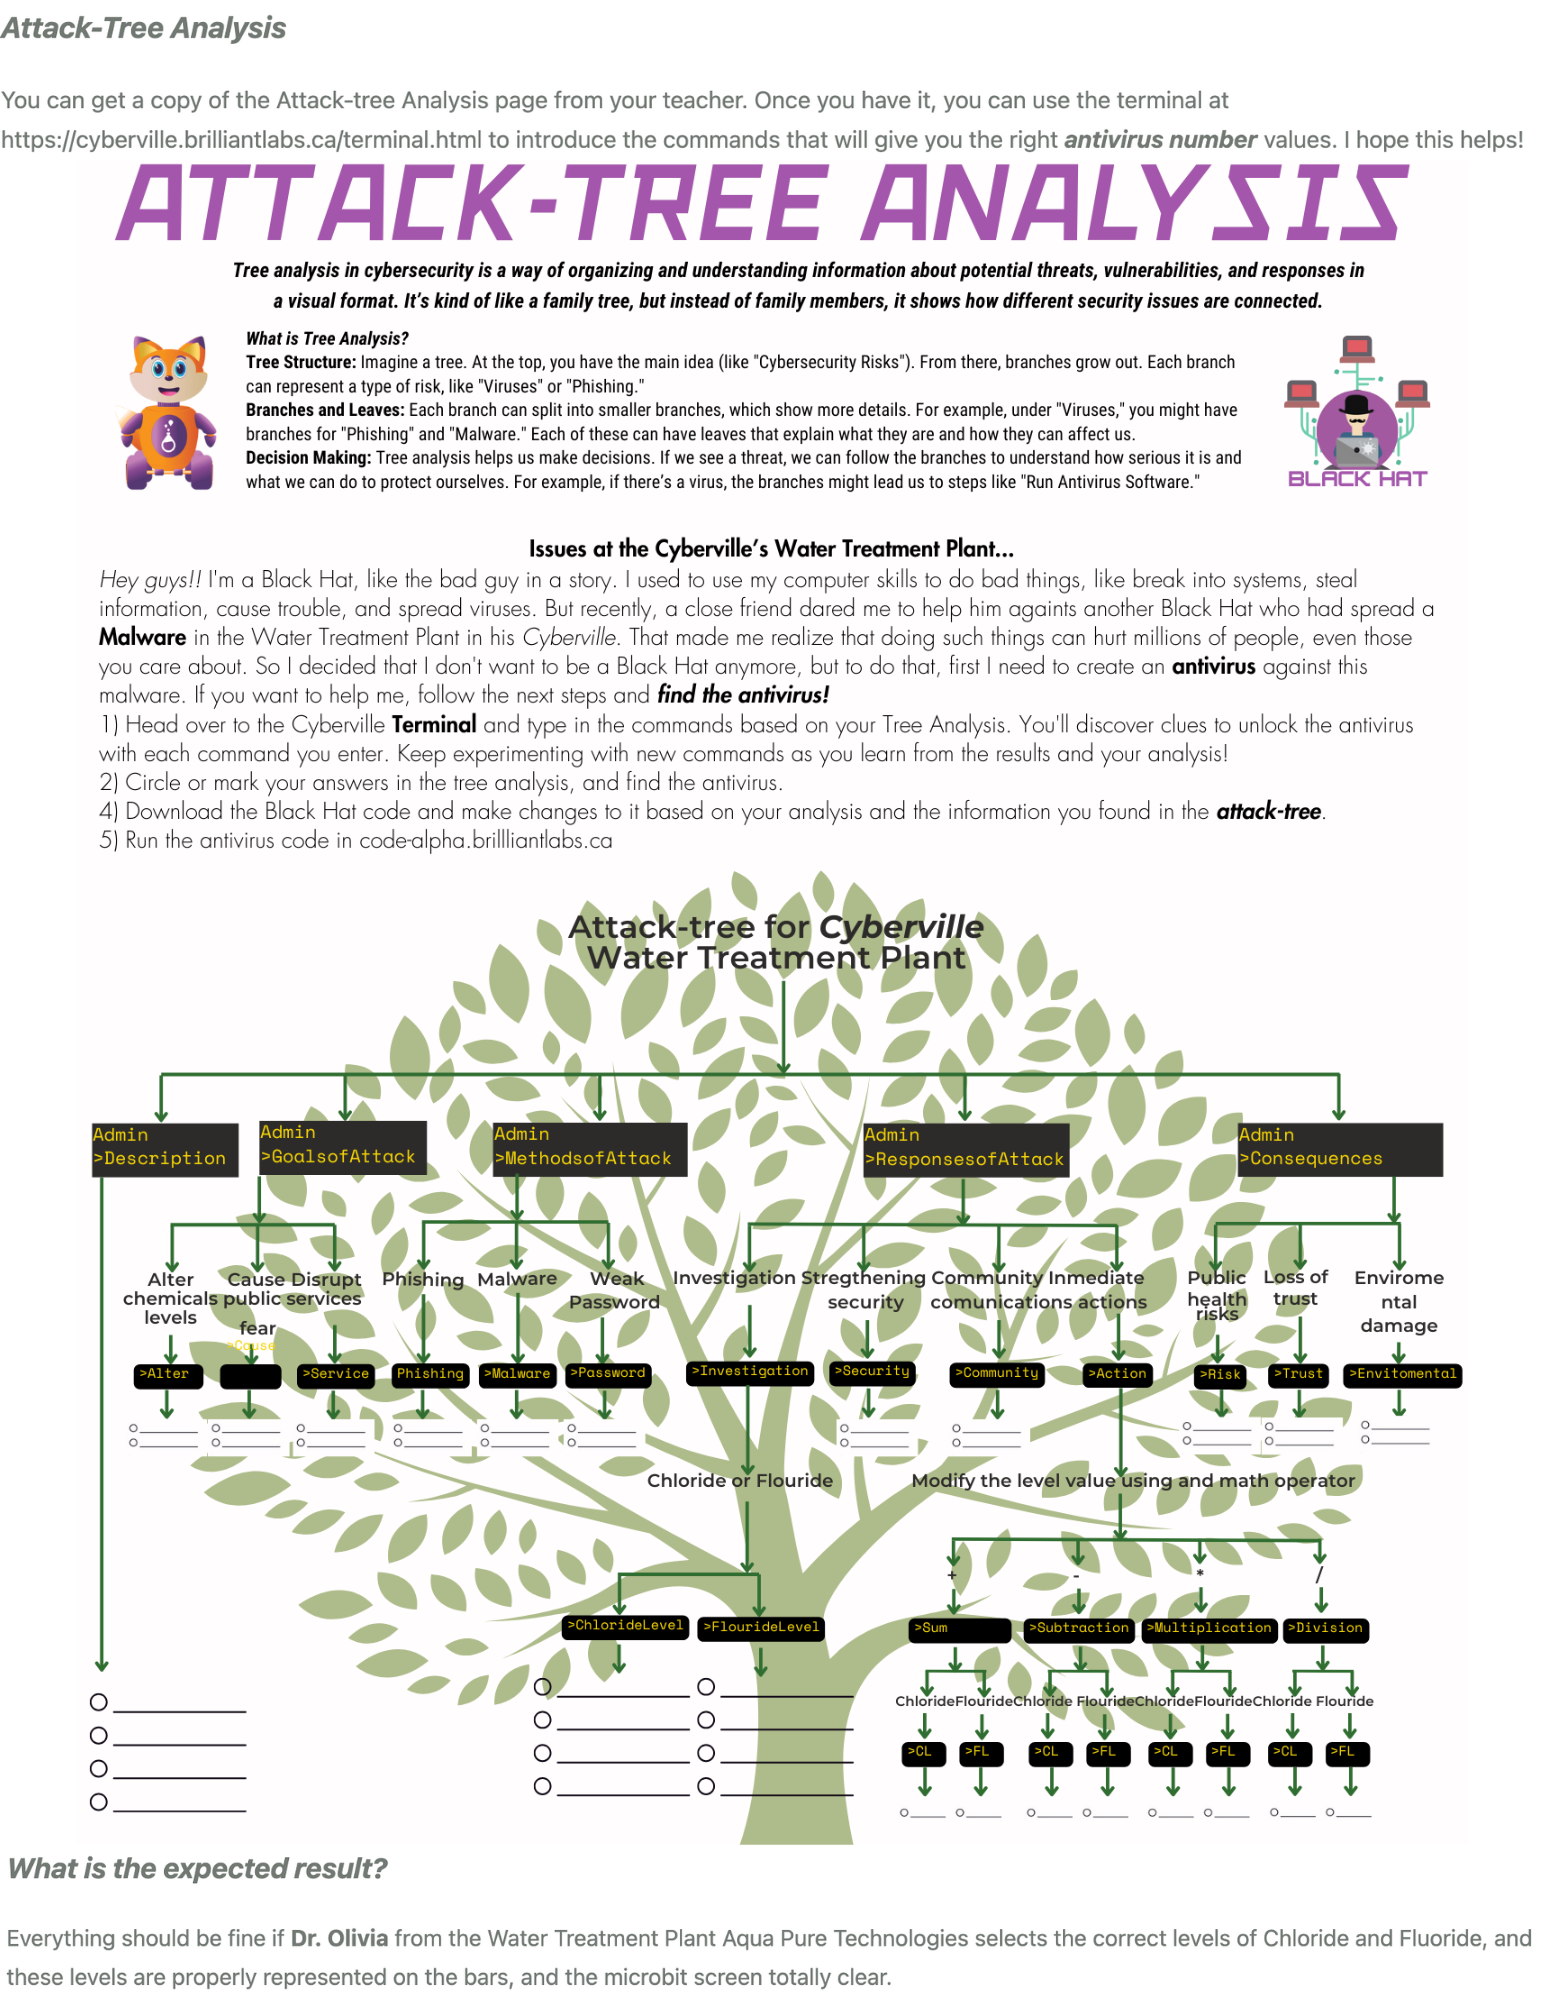
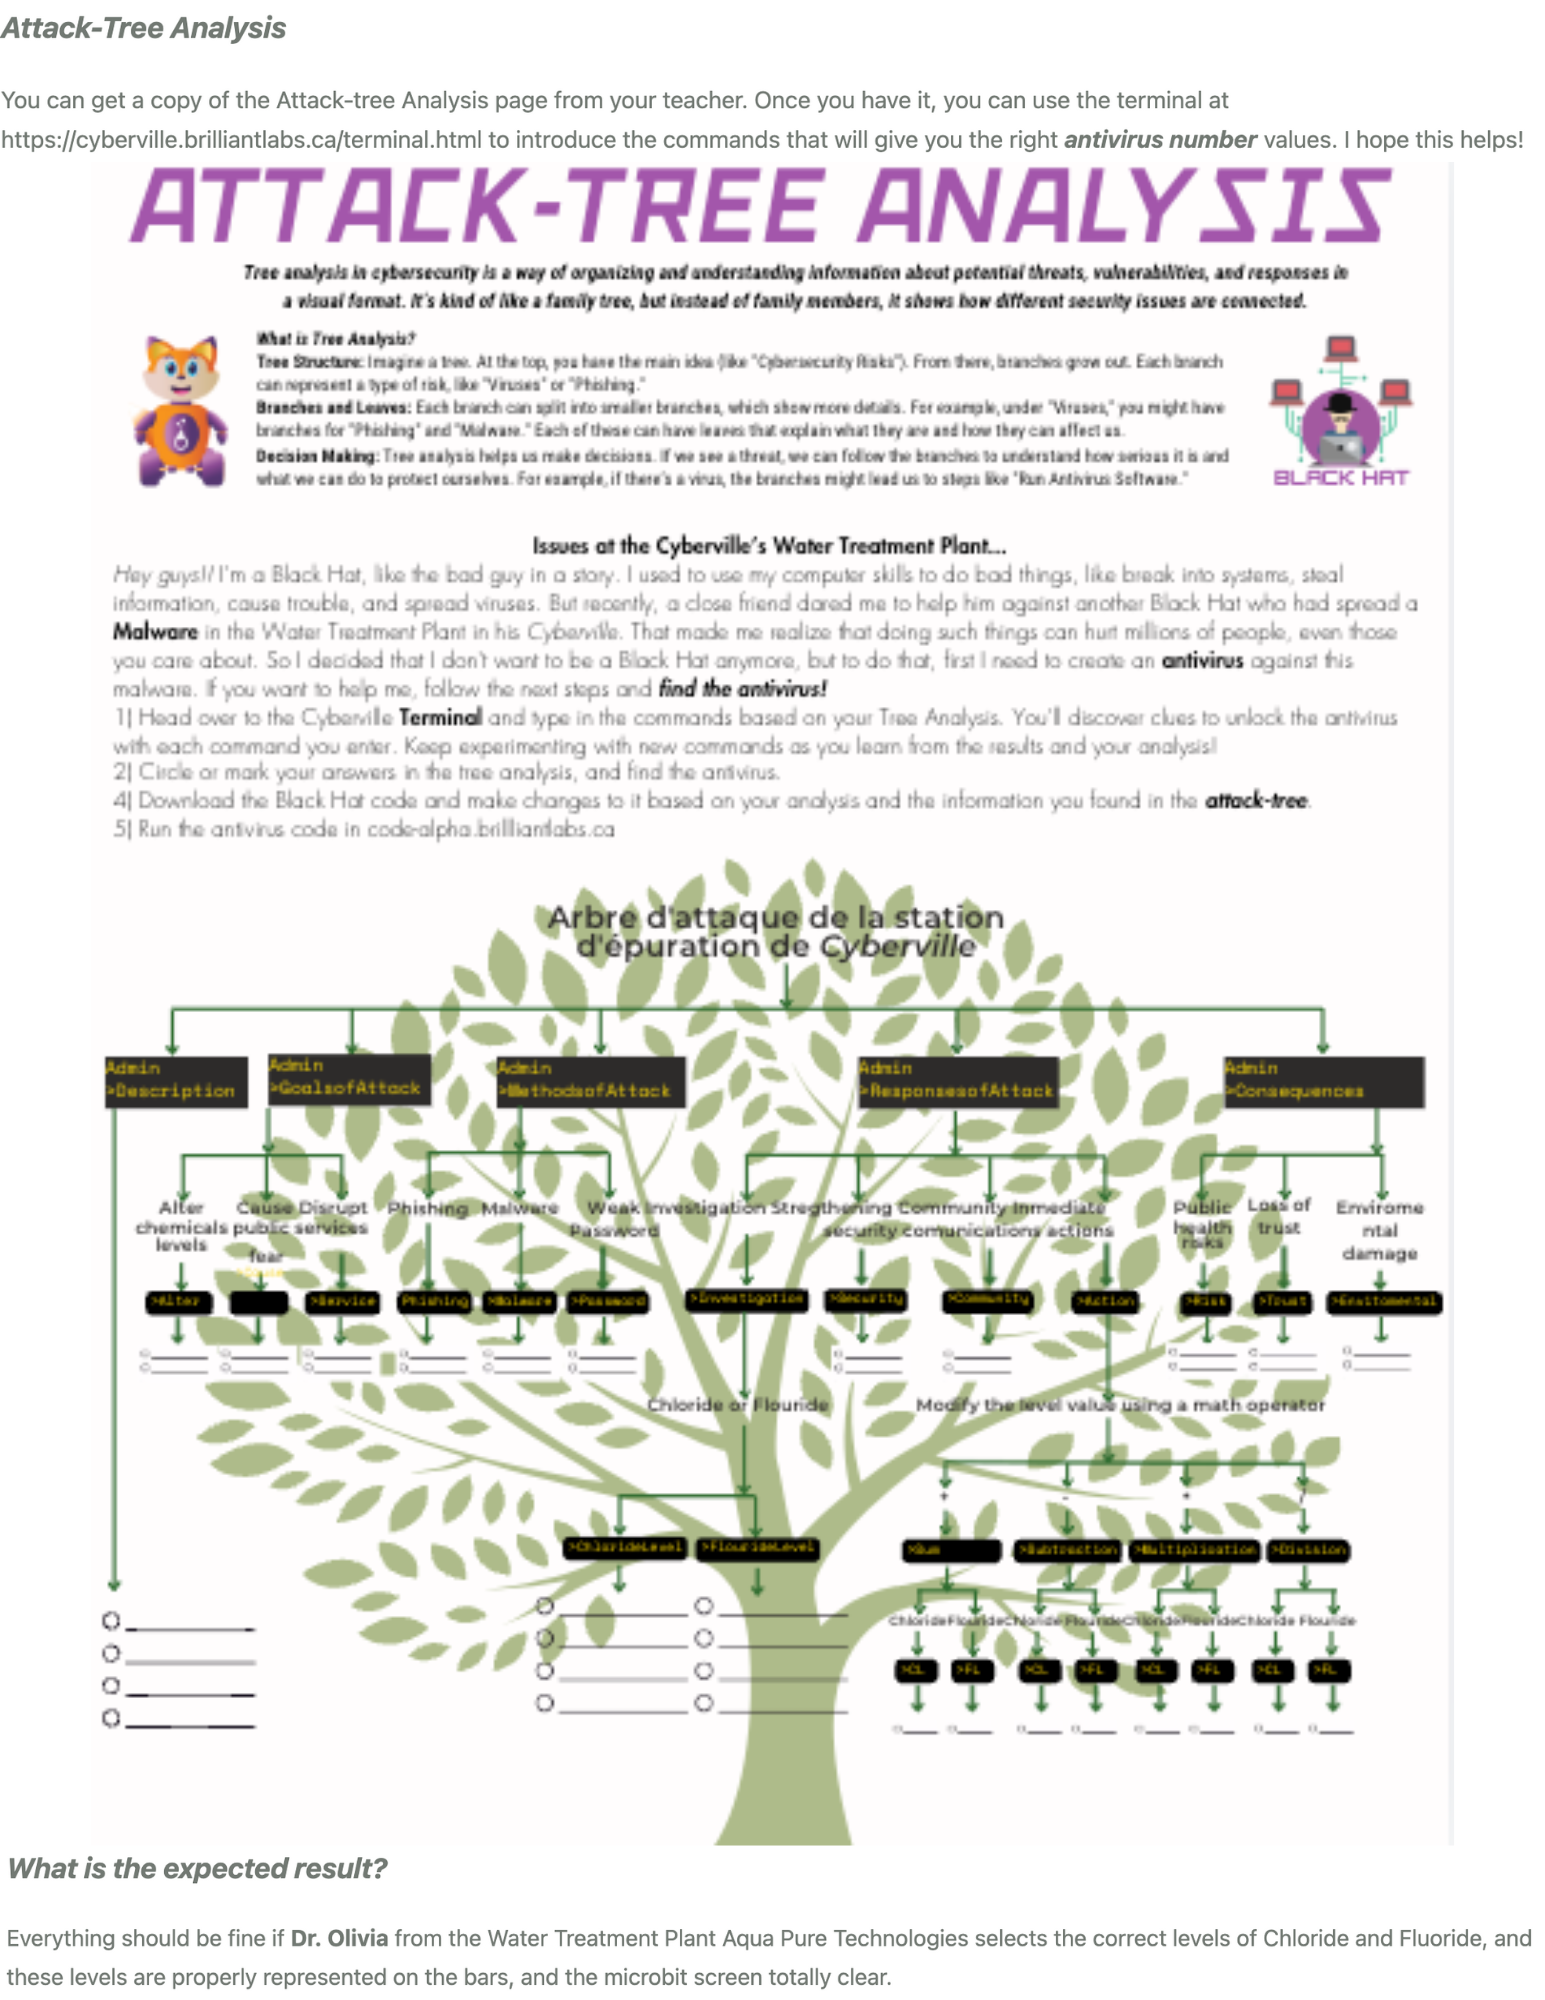
Corrections Bobbie

diff --git a/packaged/docs/static/mb/projects/bboard-tutorials-cyberville/ValuableData/3_Get_Secure_Information/README-FR.html b/packaged/docs/static/mb/projects/bboard-tutorials-cyberville/ValuableData/3_Get_Secure_Information/README-FR.html
@@ -1711,7 +1711,7 @@
 <p><strong>3.</strong> Utilisez le code d’exemple ci-joint à la fin comme base pour votre nouveau code. Apportez des modifications en fonction du défi.</p>
 <p><strong>4.</strong> Modifiez le code pour fournir le bon <strong>ratio</strong> de <strong>🧪 Chlore</strong> et <strong>🧪 Fluorure</strong> à l’usine de traitement de l’eau, et envoyez le nouveau ratio au point d’accès pour sauver l’usine de traitement de l’eau de <strong>Cyberville</strong>!!.  Voir le code d’exemple ci-dessous. </p>
 <p><strong>5.</strong> Obtenez des indices sur la <strong>page Web</strong> pour obtenir votre réponse de <strong>ratio</strong> t envoyez-la au 📳 Point d’accès pour savoir si vous avez échoué ou réussi cette activité.</p>
-<p><strong>6.</strong> Nous avons vraiment besoin de votre aide pour cette activité ! Il est très important que nous terminions le test de pénétration. Vous pouvez le télécharger <a target="_blank" rel="nofollow noopener" href="https://drive.google.com/file/d/1olnFYjDaeksdrgLxqsAW_SRAgxP1kfgX/view?usp=sharing">ici</a>.</p>
+<p><strong>6.</strong> Nous avons vraiment besoin de votre aide pour cette activité ! Il est super important que nous complétions l’analyse de l’arbre d’attaque. Vous pouvez le télécharger <a target="_blank" rel="nofollow noopener" href="https://drive.google.com/file/d/1oQ6VcHOxjwsNm0QkQ5ws38UD9L0yy2Bw/view?usp=sharing">ici</a>.</p>
 
     <div class='avatar '>
         <div class='avatar-image'></div>
